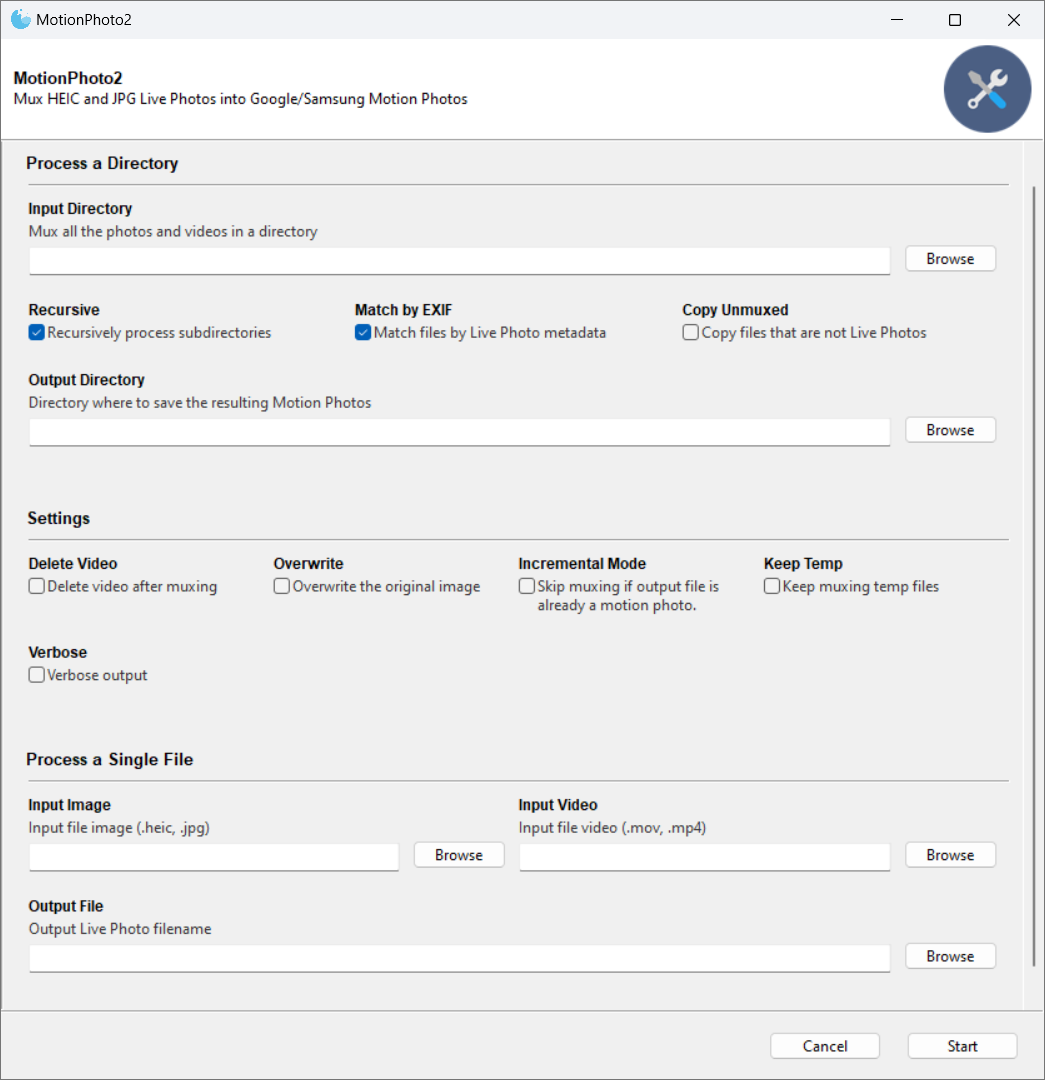
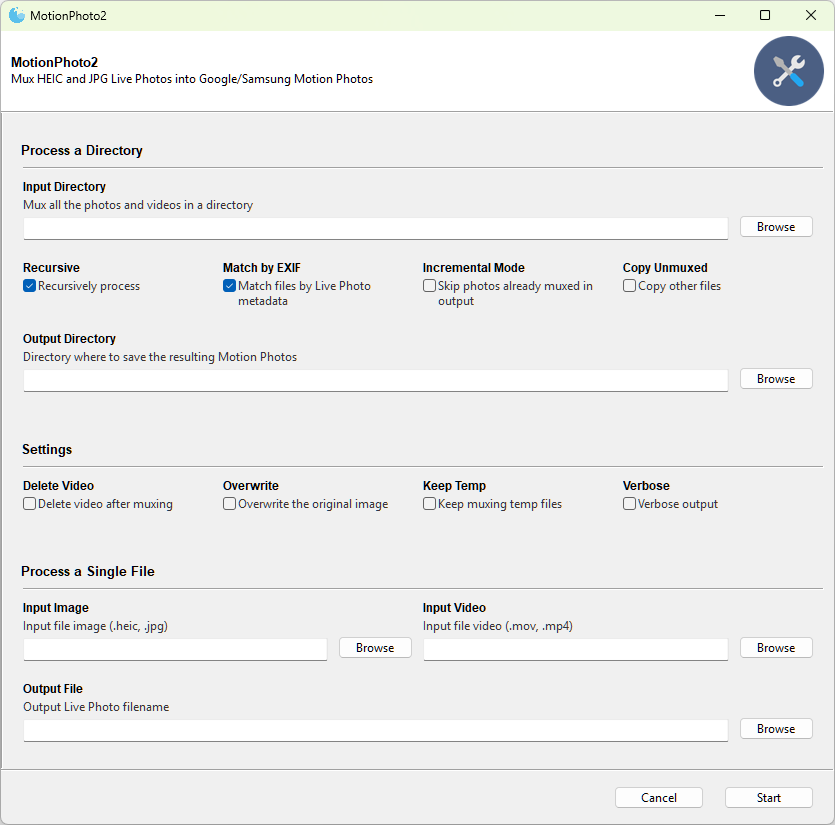
Cosmetic: reorder items on the GUI

diff --git a/motionphoto2.py b/motionphoto2.py
@@ -61,11 +61,19 @@ def main():
     )
 
     dir_group.add_argument(
+        "-im",
+        "--incremental-mode",
+        metavar="Incremental Mode",
+        action="store_true",
+        help="Skip photos already muxed in output",
+    )
+    
+    dir_group.add_argument(
         "-cu",
         "--copy-unmuxed",
         metavar="Copy Unmuxed",
         action="store_true",
-        help="Copy files that are not Live Photos",
+        help="Copy other files",
     )
 
     dir_group.add_argument(
@@ -98,14 +106,6 @@ def main():
         help="Overwrite the original image",
     )
 
-    settings_group.add_argument(
-        "-im",
-        "--incremental-mode",
-        metavar="Incremental Mode",
-        action="store_true",
-        help="Skip muxing if output file is already a motion photo.",
-    )
-    
     settings_group.add_argument(
         "-kt",
         "--keep-temp",
